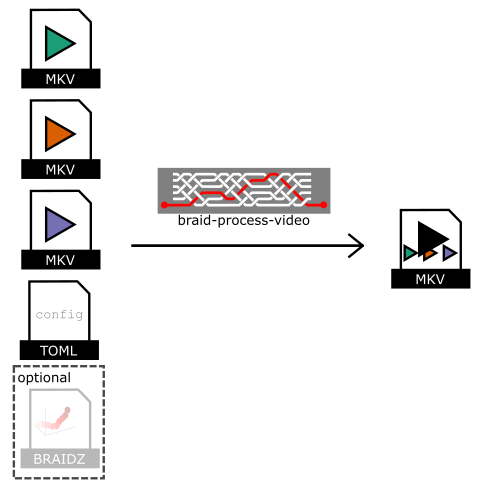
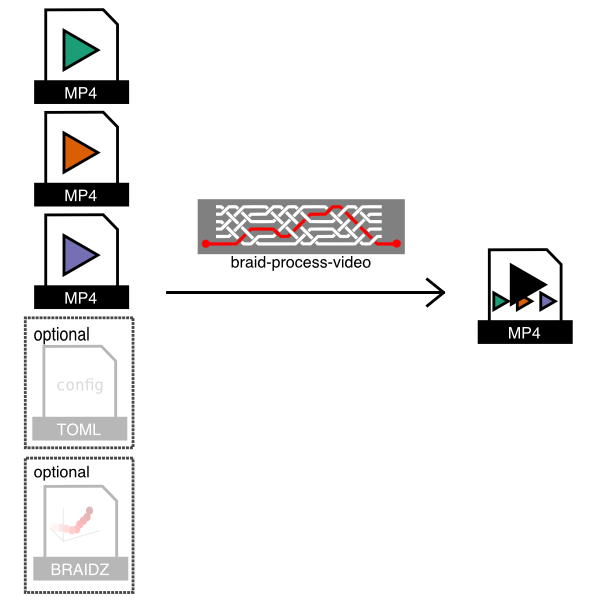
strand-braid-user: update docs for MP4 videos

diff --git a/strand-braid-user/users-guide/src/hardware-selection.md b/strand-braid-user/users-guide/src/hardware-selection.md
@@ -11,16 +11,17 @@
 * Sufficient and fast interfaces to cameras. If your cameras are USB3 or Gigabit
   ethernet, your computer needs to support enough bandwidth.
 * Disk space and speed. For realtime tracking, the tracking data is only modest
-  in size and so no particularly high performance requirements exist. For
-  streaming uncompressed raw video to disk (with the FMF format), very fast
-  disks and lots of disk space are required. As an alternative, compressed
-  videos can be saved to the MKV format. This requires either substantial CPU
-  usage (VP8 or VP9 encoding) or NVIDIA hardware (h264 encoding with NVENC, see below).
+  in size and so no particularly high performance requirements exist. With
+  Nvidia hardware that supports NVENC hardware-accelerated encoding (see below),
+  compressed, H.264 encoded video can be saved to MP4 files with also only
+  modest CPU and disk requirements are present. For streaming uncompressed, raw
+  video to disk (with MP4 or the FMF format), very fast disks and lots of disk
+  space are required.
 
 ### Hardware-accelerated video encoding using nvidia video cards
 
-NVIDIA video encoding hardware is optionally used to encode h264 videos in the
-MKV format. This is very nice because it takes almost no CPU and full framerate
+NVIDIA video encoding hardware is optionally used to encode H.264 videos in the
+MP4 format. This is very nice because it takes almost no CPU and full framerate
 videos can be recorded from your cameras during live tracking with little or no
 loss of performance. This depends on NVIDIA's library called NVENC. Please see
 NVIDIA's site for [supported

diff --git a/strand-braid-user/users-guide/README.md b/strand-braid-user/users-guide/README.md
@@ -2,8 +2,11 @@
 
 ## Building
 
-This user's guide can be built with [mdBook](https://rust-lang.github.io/mdBook)
-into a website with the command:
+This user's guide can be built with
+[mdBook](https://rust-lang.github.io/mdBook). (If you have `cargo` installed,
+you can install this with `cargo install mdbook`.)
+
+Build the User's Guide website with the command:
 
     mdbook build
 
